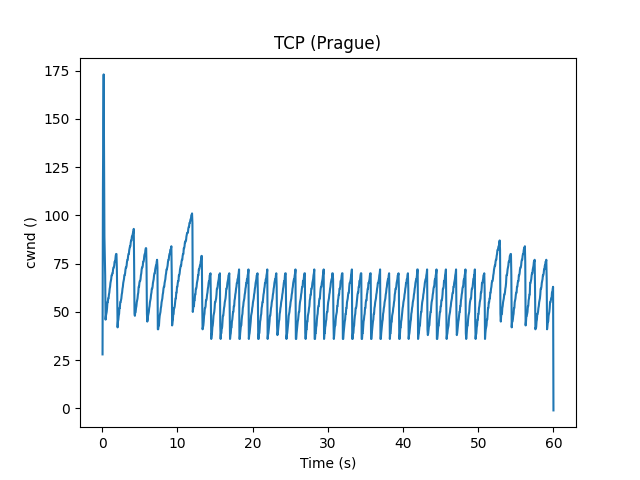
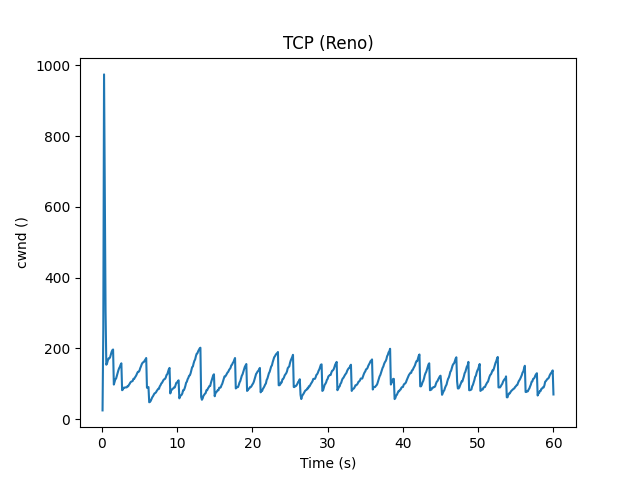
D:

diff --git a/simple_l4s.py b/simple_l4s.py
@@ -10,7 +10,7 @@ from mininet.util import dumpNetConnections
 from mininet.log import setLogLevel, info
 from mininet.cli import CLI
 
-data_rate = 10
+data_rate = 100
 RTT = 20
 BDP = int((RTT * 10**-3) * (data_rate * 10**6))
 BDP_B = int(BDP//8)
@@ -79,8 +79,8 @@ def test():
         print(srcIntf)
         s2.cmd(f"tc qdisc replace dev {srcIntf} root handle 1: tbf rate {data_rate}mbit burst 10000 limit {2*BDP_B}")
         
-        s2.cmd(f"tc qdisc add dev {srcIntf} parent 1: bfifo limit {2*BDP_B}")
-        # s2.cmd(f"tc qdisc add dev {srcIntf} parent 1: dualpi2")
+        # s2.cmd(f"tc qdisc add dev {srcIntf} parent 1: bfifo limit {2*BDP_B}")
+        s2.cmd(f"tc qdisc add dev {srcIntf} parent 1: dualpi2")
     s2.cmd("tc qdisc")
         
 
@@ -100,7 +100,6 @@ def test():
     h2.cmd("iperf -s -e > iperf_server.log &")
     time.sleep(1)
     h1.cmd(f"iperf -c {h2.IP()} -t 60 -i 0.05 -e > iperf_client.log")
-    # h1.cmd(f"iperf -Z cubic -c {h2.IP()} -t 60 -i 0.1 -e > iperf_client.log")
     
     h1.cmd("killall iperf")
     h1.cmd("killall tcpdump")
